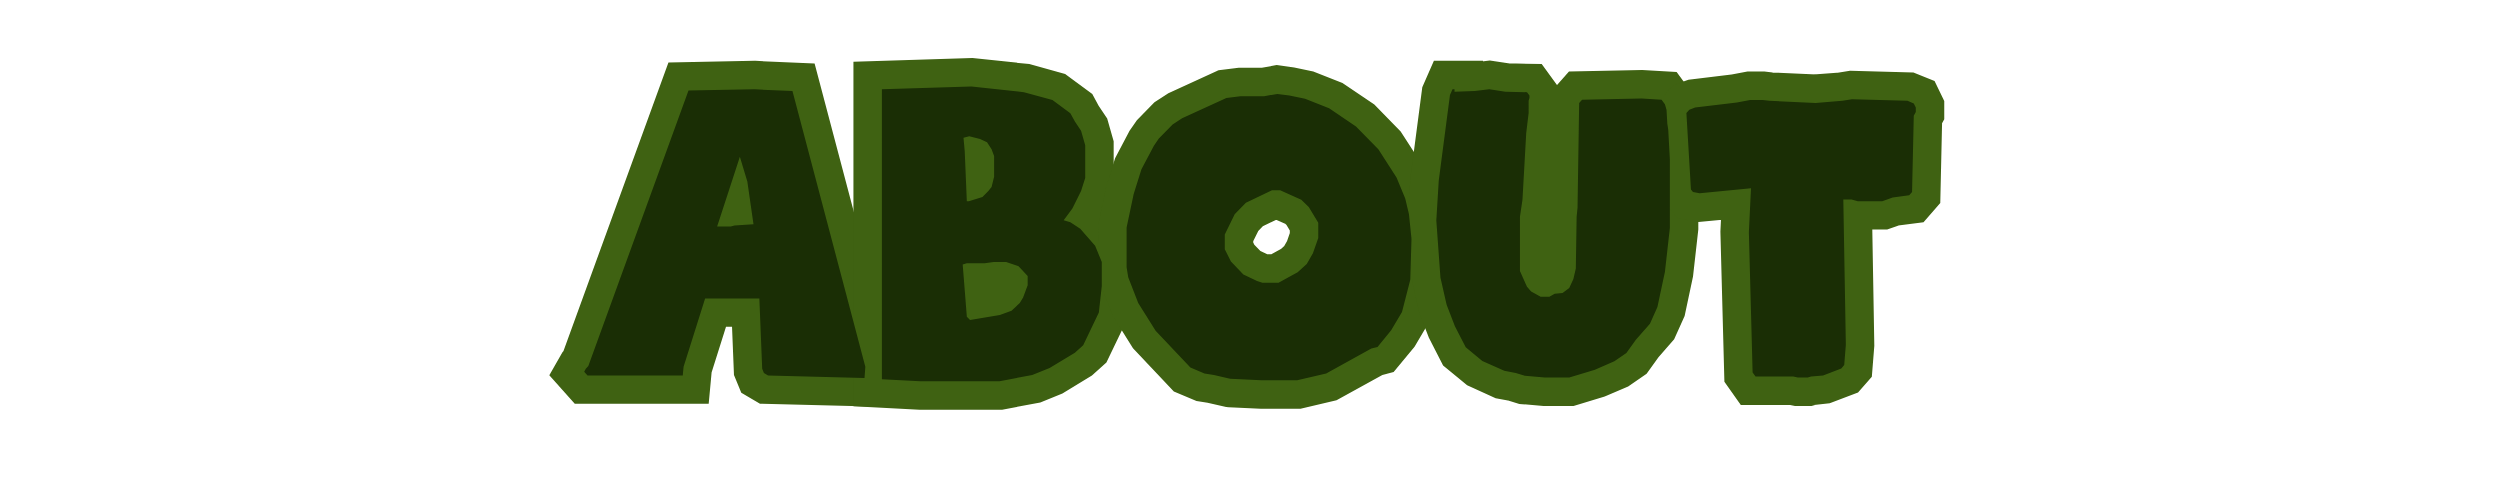
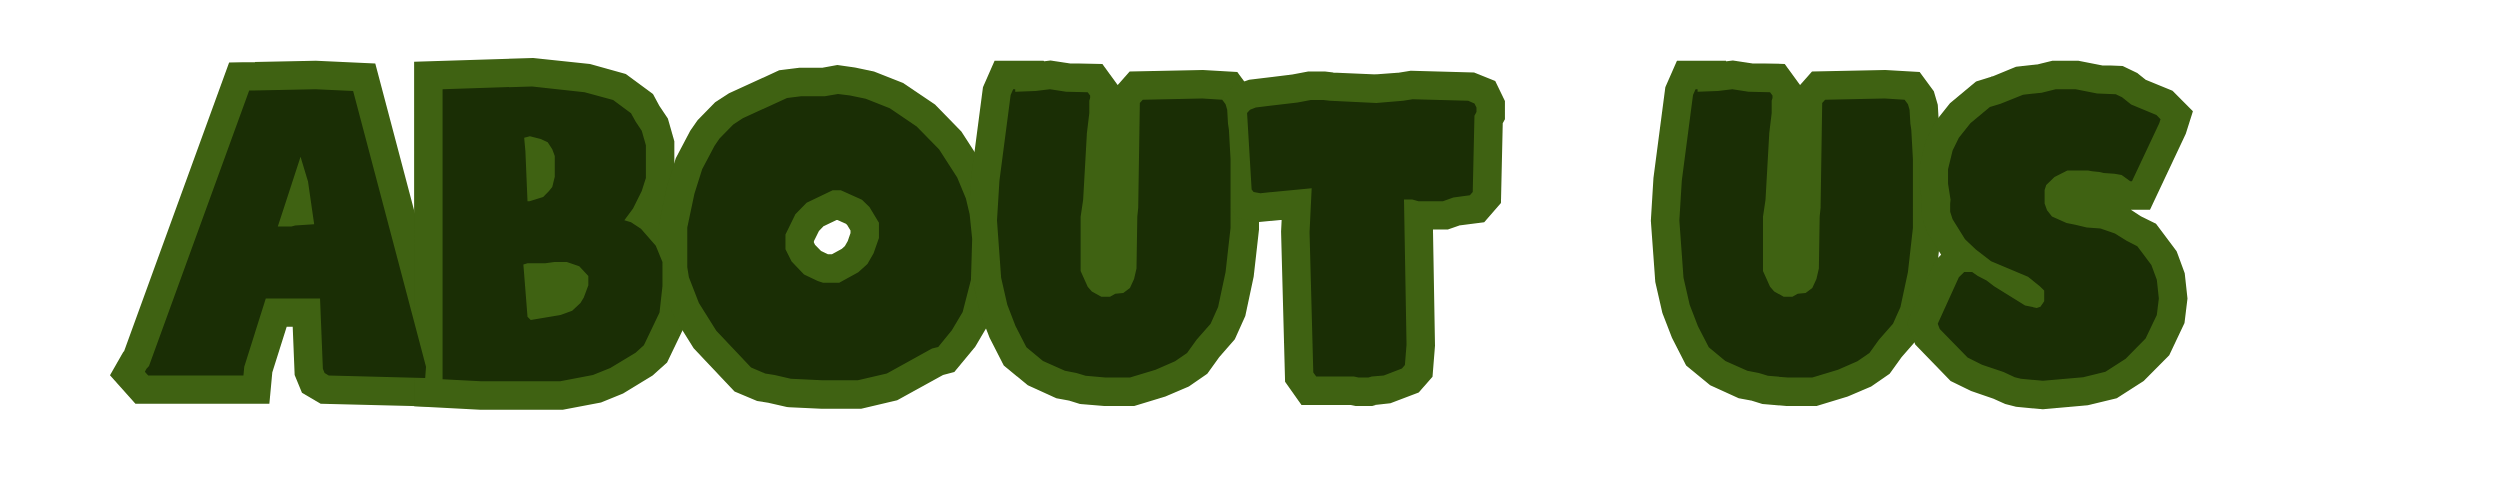
removed about tag from header

diff --git a/components/post-preview.tsx b/components/post-preview.tsx
@@ -16,11 +16,11 @@ const PostPreview = ({ title, coverImage, date, excerpt, slug }: Props) => {
       <div className="mb-5">
         <CoverImage slug={slug} title={title} src={coverImage} />
       </div>
-      <h3 className="text-3xl mb-3 leading-snug">
+      <h3 className="text-3xl mb-3 leading-snug font-medium">
         <Link
           as={`/posts/${slug}`}
           href="/posts/[slug]"
-          className="hover:underline"
+          className="hover:underline decoration-lime-800"
         >
           {title}
         </Link>

diff --git a/pages/about/index.tsx b/pages/about/index.tsx
@@ -9,7 +9,7 @@ export default function Index() {
     <>
       <Layout>
         <Head>
-          <title>About</title>
+          <title>About Us</title>
         </Head>
         <Header />
 
@@ -19,7 +19,7 @@ export default function Index() {
               src="/branding/tabs/4.png"
               height={500}
               width={2500}
-              alt="Posts"
+              alt="About Us"
               className="w-96"
             ></Image>
             <Image

diff --git a/components/header.tsx b/components/header.tsx
@@ -22,13 +22,6 @@ const Header = () => {
           >
             Products
           </Link>
-
-          <Link
-            href="/about"
-            className="hover:underline underline-offset-4 decoration-lime-800 hidden md:flex"
-          >
-            About
-          </Link>
         </div>
         <div className="hidden md:flex flex-row gap-8 text-lg md:text-3xl font-semibold mt-6">
           <Link

diff --git a/pages/index.tsx b/pages/index.tsx
@@ -93,7 +93,7 @@ export default function Index({ allPosts }: Props) {
           </div>
           <Link
             href="/posts"
-            className="text-2xl md:text-4xl font-semibold hover:underline underline-offset-4 decoration-lime-800"
+            className="text-3xl md:text-5xl font-semibold hover:underline underline-offset-4 decoration-lime-800"
           >
             Blog
           </Link>

diff --git a/components/container.tsx b/components/container.tsx
@@ -3,7 +3,11 @@ type Props = {
 };
 
 const Container = ({ children }: Props) => {
-  return <div className="container mx-auto px-5">{children}</div>;
+  return (
+    <div className="container mx-auto px-5 text-2xl md:text-4xl">
+      {children}
+    </div>
+  );
 };
 
 export default Container;
